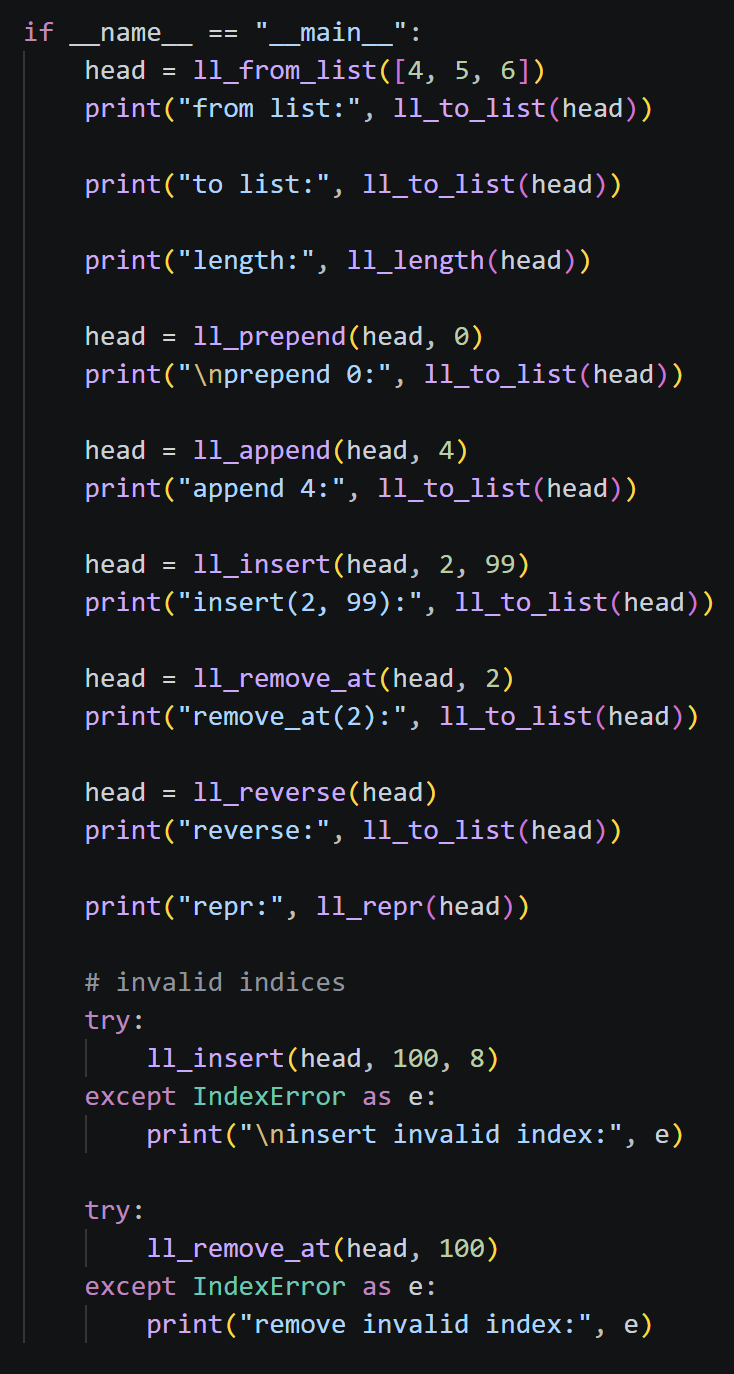
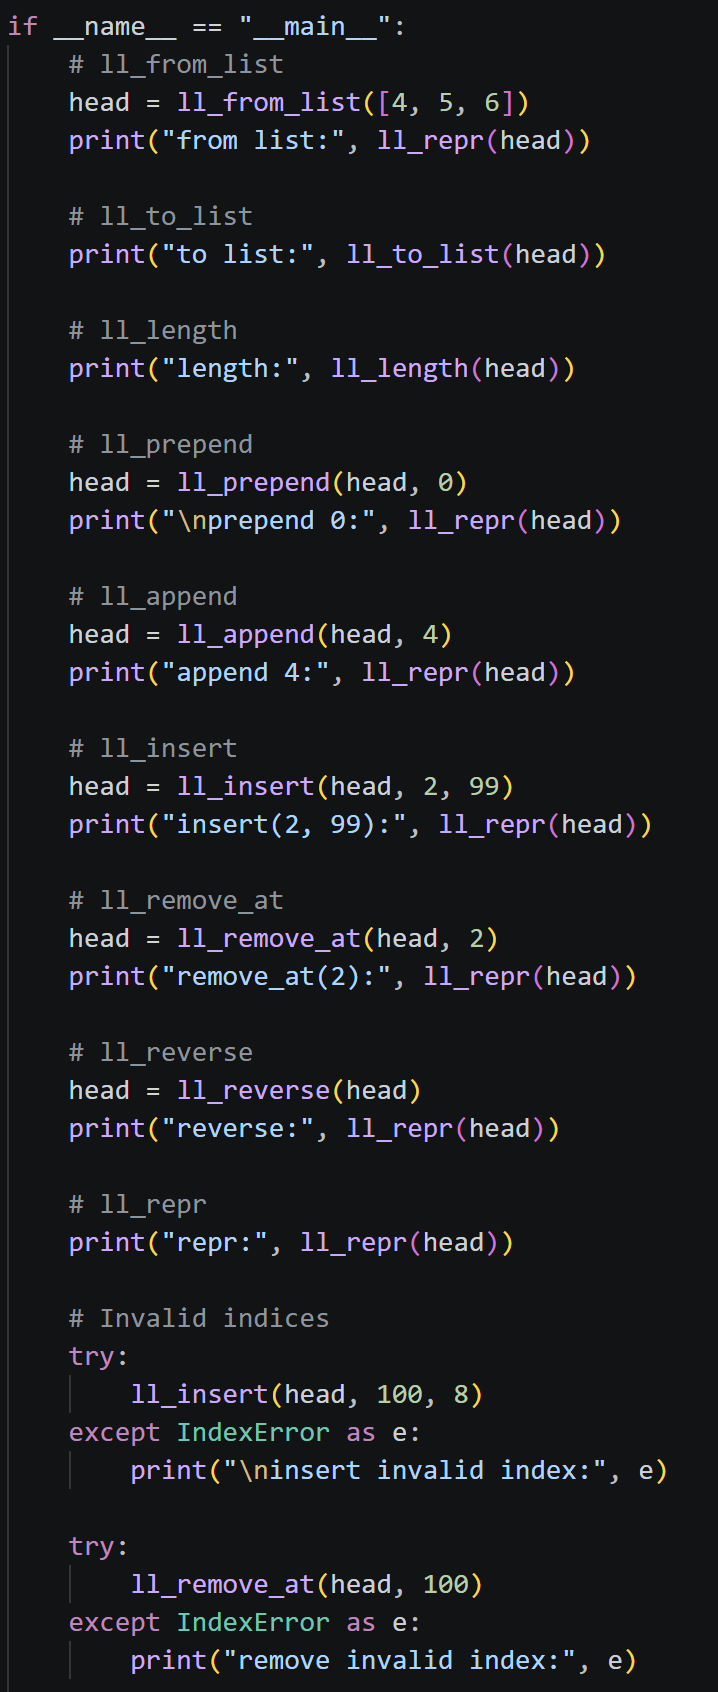
lab10 update

diff --git a/src/lab10/linked_list.py b/src/lab10/linked_list.py
@@ -123,7 +123,7 @@ def ll_repr(head) -> str:
     parts = []
     cur = head
     while cur is not None:
-        parts.append(f"{cur.value}")
+        parts.append(f"[{cur.value}]")
         cur = cur.next
 
     if not parts:
@@ -131,32 +131,72 @@ def ll_repr(head) -> str:
 
     return " -> ".join(parts) + " -> None"
 
-if __name__ == "__main__":
-    head = ll_from_list([4, 5, 6])
-    print("from list:", ll_to_list(head))
 
+def ll_middle(head) -> Node | None:
+    """
+    Return the middle node of a linked list
+    """
+    slow = head
+    fast = head
+
+    while fast is not None and fast.next is not None:
+        slow = slow.next
+        fast = fast.next.next
+
+    return slow
+
+def ll_has_cycle(head) -> bool:
+    """
+    Return True if a linked list contains a cycle
+    """
+    slow = head
+    fast = head
+
+    while fast is not None and fast.next is not None:
+        slow = slow.next
+        fast = fast.next.next
+
+        if slow is fast:
+            return True
+    return False
+
+
+
+if __name__ == "__main__":
+    # ll_from_list
+    head = ll_from_list([4, 5, 6])
+    print("from list:", ll_repr(head))
+
+    # ll_to_list
     print("to list:", ll_to_list(head))
 
+    # ll_length
     print("length:", ll_length(head))
 
+    # ll_prepend
     head = ll_prepend(head, 0)
-    print("\nprepend 0:", ll_to_list(head))
+    print("\nprepend 0:", ll_repr(head))
 
+    # ll_append
     head = ll_append(head, 4)
-    print("append 4:", ll_to_list(head))
+    print("append 4:", ll_repr(head))
 
+    # ll_insert
     head = ll_insert(head, 2, 99)
-    print("insert(2, 99):", ll_to_list(head))
+    print("insert(2, 99):", ll_repr(head))
 
+    # ll_remove_at
     head = ll_remove_at(head, 2)
-    print("remove_at(2):", ll_to_list(head))
+    print("remove_at(2):", ll_repr(head))
 
+    # ll_reverse
     head = ll_reverse(head)
-    print("reverse:", ll_to_list(head))
+    print("reverse:", ll_repr(head))
 
+    # ll_repr
     print("repr:", ll_repr(head))
 
-    # errors
+    # Invalid indices
     try:
         ll_insert(head, 100, 8)
     except IndexError as e:
@@ -166,6 +206,30 @@ if __name__ == "__main__":
         ll_remove_at(head, 100)
     except IndexError as e:
         print("remove invalid index:", e)
+
+    # ll_middle
+    middle_head = ll_from_list([10, 20, 30, 40, 50])
+    middle = ll_middle(middle_head)
+
+    print("\nmiddle:")
+    print("list:", ll_repr(middle_head))
+    print("middle:", middle.value if middle is not None else None)
+
+    # ll_has_cycle - no cycle
+    no_cycle_head = ll_from_list([10, 20, 30, 40])
+
+    print("\ncycle check (no cycle):")
+    print("list:", ll_repr(no_cycle_head))
+    print("has cycle:", ll_has_cycle(no_cycle_head))
+
+    # ll_has_cycle - with cycle
+    cycle_head = ll_from_list([10, 20, 30, 40])
+    cycle_head.next.next.next.next = cycle_head.next
+
+    print("\ncycle check (with cycle):")
+    print("list: 10 -> 20 -> 30 -> 40 -> 20 -> ...")
+    print("has cycle:", ll_has_cycle(cycle_head))
+
 
         
     

diff --git a/src/lab10/rpn.py b/src/lab10/rpn.py
@@ -1,0 +1,72 @@
+from src.lab10.structures import stack_push, stack_pop
+import operator
+
+
+def rpn(expr: str) -> float:
+    """
+    Evaluate an expression in reverse Polish notation
+    """
+    st = []
+    operations = {
+        "+": operator.add,
+        "-": operator.sub,
+        "*": operator.mul,
+        "/": operator.truediv,
+        "//": operator.floordiv,
+        "%": operator.mod
+    }
+
+    for token in expr.split():
+
+        if token in operations:
+            if len(st) >= 2:
+                b = stack_pop(st)
+                a = stack_pop(st)
+                res = operations[token](a, b)
+                stack_push(st, res)
+            else:
+                raise ValueError("not enough operands")
+
+        else:
+            try:
+                token = float(token)
+            except ValueError as e:
+                raise ValueError("token must be float") from e
+
+            stack_push(st, token)
+
+    if len(st) != 1:
+        raise ValueError("invalid RPN expression")
+
+    return stack_pop(st)
+
+            
+
+if __name__ == "__main__":
+    # tests
+    assert rpn("3 4 +") == 7.0
+    assert rpn("10 3 -") == 7.0
+    assert rpn("10 3 //") == 3.0
+    assert rpn("3 4 + 2 *") == 14.0
+
+    # error tests
+    for expr, error in [
+        ("3 +", ValueError),
+        ("3 4", ValueError),
+        ("", ValueError),
+        ("3 abc +", ValueError),
+        ("3 0 /", ZeroDivisionError),
+        ("3 0 //", ZeroDivisionError),
+        ("3 0 %", ZeroDivisionError),
+    ]:
+        try:
+            rpn(expr)
+        except error:
+            pass
+        else:
+            raise AssertionError(f"expected {error.__name__} for {expr!r}")
+
+    print("\nall RPN tests passed!")
+
+
+

diff --git a/src/lab10/d_linked_list.py b/src/lab10/d_linked_list.py
@@ -1,0 +1,73 @@
+class DoublyNode:
+    def __init__(self, value, prev = None, next = None):
+        self.value = value
+        self.prev = prev
+        self.next = next
+
+def dll_from_list(values) -> DoublyNode | None:
+    """
+    Create a doubly linked list from a sequence and return its head
+    """
+    head = None
+    for value in reversed(values):
+        new_node = DoublyNode(value, next = head)
+
+        if head is not None:
+            head.prev = new_node
+
+        head = new_node
+
+    return head
+
+
+def dll_append(head, value) -> DoublyNode:
+    """
+    Add a new node to the end of a doubly linked list and return the head
+    """
+    new_node = DoublyNode(value)
+
+
+    if head is None:
+        return new_node
+
+    cur = head
+    while cur.next is not None:
+        cur = cur.next
+
+    cur.next = new_node
+    new_node.prev = cur 
+
+    return head
+
+def dll_repr(head) -> str:
+    """
+    Return a string representation of the doubly linked list
+    """
+    parts = []
+    cur = head
+    while cur is not None:
+        parts.append(f"[{cur.value}]")
+        cur = cur.next
+
+    if not parts:
+        return "None"
+
+    return "None <- " + " <-> ".join(parts) + " -> None"
+
+
+
+if __name__ == "__main__":
+    # dll_from_list
+    head = dll_from_list(["A", "B", "C"])
+    print("from list ['A', 'B', 'C']:", dll_repr(head))
+
+    # dll_append
+    head = dll_append(head, "D")
+    print("append D:", dll_repr(head))
+
+    # dll_repr
+    print("repr:", dll_repr(head))
+
+
+
+

diff --git a/src/lab10/README.md b/src/lab10/README.md
@@ -56,6 +56,10 @@ python -m src.lab10.structures
 
 Функция `ll_reverse(head)` разворачивает список, изменяя ссылки между существующими узлами, и возвращает новую голову. Функция `ll_repr(head)` возвращает строковое представление списка в виде цепочки значений.
 
+**Дополнительное задание**: функция `ll_middle(head)` находит средний узел списка за один проход с помощью двух указателей — медленного (slow) и быстрого (fast), которые перемещаются на один и два узла соответственно. Функция возвращает средний узел или None, если список пуст.
+
+Функция `ll_has_cycle(head)` проверяет наличие цикла в списке с помощью алгоритма Флойда. Два указателя перемещаются с разной скоростью: если они встречаются, функция возвращает True, если быстрый указатель достигает конца списка — False. 
+
 ### results:
 ```bash
 python -m src.lab10.linked_list
@@ -141,3 +145,65 @@ insert/ll_prepend,100000,1.437239,0.017248,83.3
 **2. `list.insert(0, x)` и `ll_prepend(head, x)`**
 
 `ll_prepend()` быстрее `list.insert(0, x)`, так как `list.insert(0, x)` имеет сложность O(n), поскольку при вставке в начало необходимо сдвигать существующие элементы. `ll_prepend()` выполняется за O(1), так как достаточно создать новый узел и изменить ссылку на начало связного списка.
+
+## Дополнительные
+
+Функции `ll_middle(head)` и `ll_has_cycle(head)` реализованы и показаны в задании B.
+
+### d_linked_list.py
+
+**Двусвязный список** — структура данных, состоящая из узлов (`DoublyNode`), каждый из которых хранит значение (`value`) и две ссылки: на предыдущий (`prev`) и следующий (`next`) узлы. В отличие от односвязного списка, позволяет перемещаться в обоих направлениях.
+
+Функция `dll_from_list(values)` создаёт двусвязный список из
+последовательности, сохраняя порядок элементов.
+Функция `dll_append(head, value)` добавляет новый узел в конец
+списка и устанавливает связи `prev` и `next`.
+Функция `dll_repr(head)` возвращает строковое представление
+двусвязного списка.
+
+| Операция | Описание | Сложность |
+|---|---|---|
+| `dll_from_list(values)` | Создание двусвязного списка из последовательности | O(n) |
+| `dll_append(head, value)` | Добавление узла в конец | O(n) |
+| `dll_repr(head)` | Формирование строкового представления | O(n) |
+
+### results:
+```bash
+python -m src.lab10.d_linked_list
+```
+| | |
+|:------:|:-----:|
+|![dll_main](../../images/lab10/dll_main.png) | ![dll_res](../../images/lab10/dll_res.png)|
+
+### rpn.py
+
+Функция `rpn(expr)` вычисляет математическое выражение в обратной польской записи с использованием стека. Для выполнения операций применяется словарь функций из модуля `operator`. Поддерживаются сложение (`+`), вычитание (`-`), умножение (`*`), деление (`/`), целочисленное деление (`//`) и остаток от деления (`%`). Функция возвращает результат типа `float`. При некорректном выражении вызывается `ValueError`, при делении на ноль — `ZeroDivisionError`.
+
+**tests:**
+![rpn_res](../../images/lab10/rpn_tests.png)
+```py
+    # tests
+    assert rpn("3 4 +") == 7.0
+    assert rpn("10 3 -") == 7.0
+    assert rpn("10 3 //") == 3.0
+    assert rpn("3 4 + 2 *") == 14.0
+
+    # error tests
+    for expr, error in [
+        ("3 +", ValueError),
+        ("3 4", ValueError),
+        ("", ValueError),
+        ("3 abc +", ValueError),
+        ("3 0 /", ZeroDivisionError),
+        ("3 0 //", ZeroDivisionError),
+        ("3 0 %", ZeroDivisionError),
+    ]:
+        try:
+            rpn(expr)
+        except error:
+            pass
+        else:
+            raise AssertionError(f"expected {error.__name__} for {expr!r}")
+
+    print("\nall RPN tests passed!")
+```
